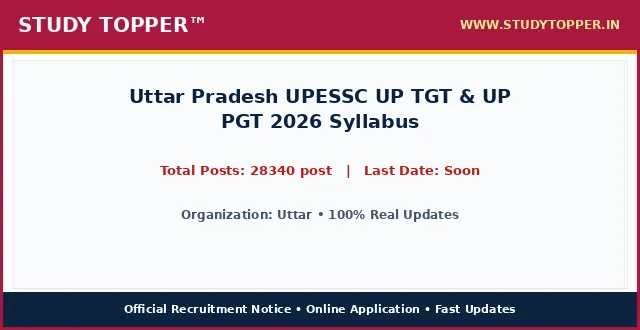
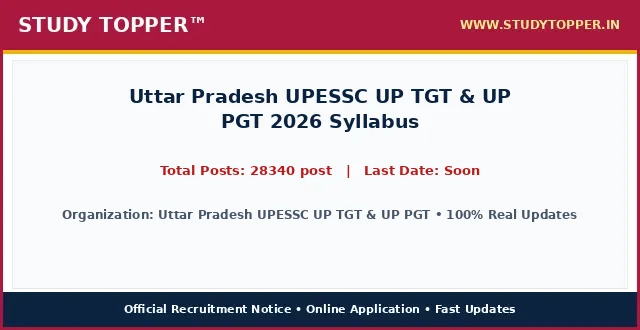
chore(lifecycle): daily auto-sort vacancies and update active dates

Changed region(s): [[0.0938, 0.6364, 0.9062, 0.6667]]

diff --git a/pages/upessc-uptgt-uppgt-syllabus.html b/pages/upessc-uptgt-uppgt-syllabus.html
@@ -987,12 +987,12 @@ ul.wp-block-latest-posts a:hover {
 <main class="site-main" id="main">
 <div class="gb-container gb-container-b39c368c">
 <h1 class="gb-headline gb-headline-e52a0102 gb-headline-text" style="font-size: 22px; font-weight: 700; color: #0000cd; text-align: left; margin: 8px 0 4px 0; line-height: 1.3; width: 100%; font-family: '-apple-system, BlinkMacSystemFont, 'Segoe UI', Roboto, 'Helvetica Neue', Arial, sans-serif', Times, serif, Hind, sans-serif;">Uttar Pradesh UPESSC UP TGT & UP PGT 2026 Syllabus</h1>
-<div class="gb-container gb-container-659bd175"><p style="color: #cd0808; font-weight: 700; font-size: 15px; margin: 2px 0 7px 0; text-align: left; font-family: '-apple-system, BlinkMacSystemFont, 'Segoe UI', Roboto, 'Helvetica Neue', Arial, sans-serif', Times, serif, Hind, sans-serif;">Post Date: August 22, 2026 11:56 AM</p></div>
-<p class="gb-headline gb-headline-550ae316 short_Details gb-headline-text" style="width: 100%; max-width: 100%; font-size: 16.8px; line-height: 1.55; color: #000000; text-align: justify; text-justify: inter-word; margin: 8px 0 14px 0; display: block; font-family: '-apple-system, BlinkMacSystemFont, 'Segoe UI', Roboto, 'Helvetica Neue', Arial, sans-serif', Times, serif, Hind, sans-serif;"><strong style="color: #0000cd;">Uttar</strong> has officially published the recruitment notice <strong style="color: #cd0808;">Uttar Pradesh UPESSC UP TGT & UP PGT 2026 Syllabus</strong> under notification number Official Advt 2026. Online applications are invited for 28340 post across multiple departments and cadre positions. Interested candidates possessing the requisite educational qualifications and falling between 18 Years to 40 Years can complete their online registration before the application deadline of Soon. Applicants should read the eligibility criteria, category reservation rules, and exam scheme thoroughly before submitting applications.</p>
+<div class="gb-container gb-container-659bd175"><p style="color: #cd0808; font-weight: 700; font-size: 15px; margin: 2px 0 7px 0; text-align: left; font-family: '-apple-system, BlinkMacSystemFont, 'Segoe UI', Roboto, 'Helvetica Neue', Arial, sans-serif', Times, serif, Hind, sans-serif;">Post Date: August 22, 2026 01:09 PM</p></div>
+<p class="gb-headline gb-headline-550ae316 short_Details gb-headline-text" style="width: 100%; max-width: 100%; font-size: 16.8px; line-height: 1.55; color: #000000; text-align: justify; text-justify: inter-word; margin: 8px 0 14px 0; display: block; font-family: '-apple-system, BlinkMacSystemFont, 'Segoe UI', Roboto, 'Helvetica Neue', Arial, sans-serif', Times, serif, Hind, sans-serif;"><strong style="color: #0000cd;">Uttar Pradesh UPESSC UP TGT & UP PGT</strong> has officially published the recruitment notice <strong style="color: #cd0808;">Uttar Pradesh UPESSC UP TGT & UP PGT 2026 Syllabus</strong> under notification number Official Notification 2026. Online applications are invited for 28340 post across multiple departments and cadre positions. Interested candidates possessing the requisite educational qualifications and falling between 18 Years to 40 Years can complete their online registration before the application deadline of Soon. Applicants should read the eligibility criteria, category reservation rules, and exam scheme thoroughly before submitting applications.</p>
 <div class="gb-container gb-container-9849916c"><div class="social-buttons-compact" style="display: flex; justify-content: flex-start; align-items: center; gap: 10px; margin: 10px 0 16px 0; width: 100%;"><a class="social-btn-compact wa" href="https://whatsapp.com/channel/0029Va9xyz" rel="noopener" style="background-color: #00d084; color: #ffffff; padding: 10px 18px; border-radius: 4px; text-decoration: none; font-weight: bold; font-size: 15.5px; display: inline-flex; align-items: center; justify-content: center; height: auto;" target="_blank">WhatsApp</a><a class="social-btn-compact tg" href="https://t.me/studytopperofficial" rel="noopener" style="background-color: #0088cc; color: #ffffff; padding: 10px 18px; border-radius: 4px; text-decoration: none; font-weight: bold; font-size: 15.5px; display: inline-flex; align-items: center; justify-content: center; height: auto;" target="_blank">Telegram</a></div></div>
 <div class="gb-container gb-container-f58e6ca1" style="border: 2px solid #5b032f; border-radius: 4px; overflow: hidden; margin: 15px 0 20px 0; background-color: #ffffff; width: 100%; box-sizing: border-box;">
 <h2 class="gb-headline gb-headline-2ca5a791 gb-headline-text" style="font-size: 16px; font-weight: 700; text-align: center; color: #ef0303; line-height: 1.3; padding: 6px 4px; margin: 0; background: #ffffff; font-family: '-apple-system, BlinkMacSystemFont, 'Segoe UI', Roboto, 'Helvetica Neue', Arial, sans-serif', Times, serif, Hind, sans-serif;">Uttar Pradesh UPESSC UP TGT & UP PGT 2026 Syllabus &ndash; Latest Details &amp; Updates</h2>
-<h3 class="gb-headline gb-headline-7d5f86e8 gb-headline-text" style="font-size: 16px; font-weight: 600; text-align: center; color: #009703; line-height: 1.25; margin: 0; padding: 2px 4px 6px 4px; background: #ffffff; font-family: '-apple-system, BlinkMacSystemFont, 'Segoe UI', Roboto, 'Helvetica Neue', Arial, sans-serif', Times, serif, Hind, sans-serif;">Uttar : Details &amp; Summary</h3>
+<h3 class="gb-headline gb-headline-7d5f86e8 gb-headline-text" style="font-size: 16px; font-weight: 600; text-align: center; color: #009703; line-height: 1.25; margin: 0; padding: 2px 4px 6px 4px; background: #ffffff; font-family: '-apple-system, BlinkMacSystemFont, 'Segoe UI', Roboto, 'Helvetica Neue', Arial, sans-serif', Times, serif, Hind, sans-serif;">Uttar Pradesh UPESSC UP TGT & UP PGT : Details &amp; Summary</h3>
 <p class="gb-headline gb-headline-79adf169 gb-headline-text" style="margin: 0 0 6px 0; font-family: '-apple-system, BlinkMacSystemFont, 'Segoe UI', Roboto, 'Helvetica Neue', Arial, sans-serif', Times, serif, Hind, sans-serif; text-align: center; font-size: 18px; font-weight: 700;"><a href="/" style="color: #0000ff; text-decoration: underline;">StudyTopper.in</a></p>
 
 <style id="st-post-boxes-responsive-css">
@@ -1025,7 +1025,7 @@ ul.wp-block-latest-posts a:hover {
     <div style="background-color: #5b032f; color: #ffffff; padding: 8px 10px; font-size: 20px; font-weight: 700; text-align: center; font-family: '-apple-system, BlinkMacSystemFont, 'Segoe UI', Roboto, 'Helvetica Neue', Arial, sans-serif', Times, serif, Hind, sans-serif;">Important Dates</div>
     <div style="padding: 12px 14px; background-color: #ffffff;">
       <ul style="padding-left: 20px; margin: 0; list-style-type: disc; text-align: left; font-size: 14pt; line-height: 1.6; font-family: '-apple-system, BlinkMacSystemFont, 'Segoe UI', Roboto, 'Helvetica Neue', Arial, sans-serif', Times, serif, Hind, sans-serif;">
-        
+        <li><span style="font-size: 14pt;">UP TGT 2026 Syllabus Available : <strong>03/08/2026</strong></span></li><li><span style="font-size: 14pt;">UP PGT 2026 Syllabus Available : <strong>03/08/2026</strong></span></li>
       </ul>
     </div>
   </div>
@@ -1047,10 +1047,10 @@ ul.wp-block-latest-posts a:hover {
 <div class="st-grid-row" style="display: flex; flex-wrap: wrap; width: 100%; border-top: 2px solid #5b032f; margin: 0; padding: 0; box-sizing: border-box;">
   <!-- Left Col: Age Limits -->
   <div class="st-col-half st-col-border-right" style="box-sizing: border-box; vertical-align: top;">
-    <div style="background-color: #046132; color: #ffffff; padding: 8px 10px; font-size: 17px; font-weight: 700; text-align: center; font-family: '-apple-system, BlinkMacSystemFont, 'Segoe UI', Roboto, 'Helvetica Neue', Arial, sans-serif', Times, serif, Hind, sans-serif;">Uttar : Age Limits As On 01 August 2026</div>
+    <div style="background-color: #046132; color: #ffffff; padding: 8px 10px; font-size: 17px; font-weight: 700; text-align: center; font-family: '-apple-system, BlinkMacSystemFont, 'Segoe UI', Roboto, 'Helvetica Neue', Arial, sans-serif', Times, serif, Hind, sans-serif;">Uttar Pradesh UPESSC UP TGT & UP PGT : Age Limits As On 01/08/2026</div>
     <div style="padding: 12px 14px; background-color: #ffffff;">
       <ul style="padding-left: 20px; margin: 0; list-style-type: disc; text-align: left; font-size: 14pt; line-height: 1.6; font-family: '-apple-system, BlinkMacSystemFont, 'Segoe UI', Roboto, 'Helvetica Neue', Arial, sans-serif', Times, serif, Hind, sans-serif;">
-        
+        <li><span style="font-size: 14pt;">Minimum Age : <strong>18 Years (As per post rules)</strong></span></li><li><span style="font-size: 14pt;">Maximum Age : <strong>40 Years (As per post rules)</strong></span></li><li><span style="font-size: 14pt;">Age Relaxation : <strong>Age Relaxation Extra as per Uttar Pradesh UPESSC UP TGT & UP PGT Recruitment Rules.</strong></span></li>
       </ul>
     </div>
   </div>
@@ -1079,9 +1079,9 @@ ul.wp-block-latest-posts a:hover {
 <th style="background-color: #f53c00; color: #ffffff; padding: 6px 10px; text-align: center; border: 1px solid #d35400; font-size: 15px; font-weight: 700; font-family: '-apple-system, BlinkMacSystemFont, 'Segoe UI', Roboto, 'Helvetica Neue', Arial, sans-serif', Times, serif, Hind, sans-serif;">Eligibility Criteria</th>
 </tr>
 <tr>
-<td style="padding: 8px; border: 1px solid #ddd; font-weight: bold;">Uttar Recruitment</td>
+<td style="padding: 8px; border: 1px solid #ddd; font-weight: bold;">Uttar Pradesh UPESSC UP TGT & UP PGT 2026 Syllabus</td>
 <td style="padding: 8px; border: 1px solid #ddd; text-align: center; font-weight: bold;">28340 post</td>
-<td style="padding: 8px; border: 1px solid #ddd;">Please refer to the official notification linked below for detailed educational qualifications.</td>
+<td style="padding: 8px; border: 1px solid #ddd;">Passed prescribed Educational Qualification from Any Recognized Board / University in India. Read full official notification for post-wise eligibility criteria.</td>
 </tr>
 </tbody>
 </table>
@@ -1093,10 +1093,10 @@ ul.wp-block-latest-posts a:hover {
 <table style="border-collapse: collapse; width: 100%;">
 <tbody>
 <tr>
-<td style="width: 100%; text-align: center;"><span style="background-color: #000080; color: #ffffff; font-size: 14pt; font-weight: bold; display: block; padding: 6px;"> How to Fill Uttar Online Application Form </span></td>
+<td style="width: 100%; text-align: center;"><span style="background-color: #000080; color: #ffffff; font-size: 14pt; font-weight: bold; display: block; padding: 6px;"> How to Fill Uttar Pradesh UPESSC UP TGT & UP PGT Online Application Form </span></td>
 </tr>
 <tr>
-<td style="width: 100%;"><ol style="margin:0; padding-left:18px; text-align: left !important; list-style-position: outside !important"><li style="margin-bottom:6px; text-align: left !important;">Read the official recruitment notification carefully before applying.</li><li style="margin-bottom:6px; text-align: left !important;">Keep all basic documents ready: ID Proof, Address Details, Basic Details.</li><li style="margin-bottom:6px; text-align: left !important;">Ready your scanned documents like Photo, Signature, ID Proof, etc.</li><li style="margin-bottom:6px; text-align: left !important;">Click on the 'Apply Online' link given in the Important Links section below.</li><li style="margin-bottom:6px; text-align: left !important;">Fill out all the columns in the application form accurately.</li><li style="margin-bottom:6px; text-align: left !important;">Pay the required application fee if applicable.</li><li style="margin-bottom:6px; text-align: left !important;">Take a printout of the final submitted application form.</li><li style="margin-bottom:6px; text-align: left !important;">Resize candidate photograph and signature accurately using the <a href="https://indtool.in" rel="noopener" target="_blank"><strong>StudyTopper Tools</strong></a> image resizer at indtool.in.</li></ol></td>
+<td style="width: 100%;"><ol style="margin:0; padding-left:18px; text-align: left !important; list-style-position: outside !important"><li style="margin-bottom:6px; text-align: left !important;">Uttar Pradesh Education Service Selection Commission (UPESSC), Prayagraj Are Released UPTGT and UPPGT Exam Syllabus 2026</li><li style="margin-bottom:6px; text-align: left !important;">Candidate Read the Syllabus Before Apply the Recruitment Application Form in UP TGT Teacher and UP PGT Teacher 2026.</li><li style="margin-bottom:6px; text-align: left !important;">Resize candidate photograph and signature accurately using the <a href="https://indtool.in" rel="noopener" target="_blank"><strong>StudyTopper Tools</strong></a> image resizer at indtool.in.</li></ol></td>
 </tr>
 </tbody>
 </table>
@@ -1104,7 +1104,7 @@ ul.wp-block-latest-posts a:hover {
 <table style="border-collapse: collapse; width: 100%;">
 <tbody>
 <tr>
-<td style="width: 100%; text-align: center;"><span style="background-color: #000080; color: #ffffff; font-size: 14pt;"><strong><span style="color: #ffffff;"> Uttar Recruitment 2026 : Mode Of Selection </span></strong></span></td>
+<td style="width: 100%; text-align: center;"><span style="background-color: #000080; color: #ffffff; font-size: 14pt;"><strong><span style="color: #ffffff;"> Uttar Pradesh UPESSC UP TGT & UP PGT Recruitment 2026 : Mode Of Selection </span></strong></span></td>
 </tr>
 <tr>
 <td style="width: 100%;">
@@ -1144,42 +1144,170 @@ ul.wp-block-latest-posts a:hover {
 
 <tr style="border-bottom: 1px solid #000000; background-color: #fff37a;">
 <td style="width: 50%; padding: 14px 16px; border-right: 1px solid #000000; text-align: center;">
-<span style="font-size: 19px; font-weight: 800; color: #000000; font-family: '-apple-system, BlinkMacSystemFont, 'Segoe UI', Roboto, 'Helvetica Neue', Arial, sans-serif', Times, serif, Hind, sans-serif;">Apply Online Link</span>
+<span style="font-size: 19px; font-weight: 800; color: #000000; font-family: '-apple-system, BlinkMacSystemFont, 'Segoe UI', Roboto, 'Helvetica Neue', Arial, sans-serif', Times, serif, Hind, sans-serif;">General Knowledge GK</span>
 </td>
 <td style="width: 50%; padding: 14px 16px; text-align: center;">
-<span style="font-size: 20px; font-weight: 800; font-family: '-apple-system, BlinkMacSystemFont, 'Segoe UI', Roboto, 'Helvetica Neue', Arial, sans-serif', Times, serif, Hind, sans-serif;"><a href="" aria-label="Click Here for Apply Online Link - Uttar Pradesh UPESSC UP TGT & UP PGT 2026 Syllabus" rel="noopener noreferrer" style="color: #0000ef; font-weight: 800; text-decoration: none;" target="_blank">Click Here</a></span>
+<span style="font-size: 20px; font-weight: 800; font-family: '-apple-system, BlinkMacSystemFont, 'Segoe UI', Roboto, 'Helvetica Neue', Arial, sans-serif', Times, serif, Hind, sans-serif;"><a href="https://doc.sarkariresults.org.in/SarkariResult.Com_UPTGT_UPPGT_GeneralKNowledge_Hindi%20(1).pdf" aria-label="Click Here for General Knowledge GK - Uttar Pradesh UPESSC UP TGT & UP PGT 2026 Syllabus" rel="noopener noreferrer" style="color: #0000ef; font-weight: 800; text-decoration: none;" target="_blank">Click Here</a></span>
 </td>
 </tr>
 <tr style="border-bottom: 1px solid #000000; background-color: #fff37a;">
 <td style="width: 50%; padding: 14px 16px; border-right: 1px solid #000000; text-align: center;">
-<span style="font-size: 19px; font-weight: 800; color: #000000; font-family: '-apple-system, BlinkMacSystemFont, 'Segoe UI', Roboto, 'Helvetica Neue', Arial, sans-serif', Times, serif, Hind, sans-serif;">Check Official Notification</span>
+<span style="font-size: 19px; font-weight: 800; color: #000000; font-family: '-apple-system, BlinkMacSystemFont, 'Segoe UI', Roboto, 'Helvetica Neue', Arial, sans-serif', Times, serif, Hind, sans-serif;">General Knowledge GK</span>
 </td>
 <td style="width: 50%; padding: 14px 16px; text-align: center;">
-<span style="font-size: 20px; font-weight: 800; font-family: '-apple-system, BlinkMacSystemFont, 'Segoe UI', Roboto, 'Helvetica Neue', Arial, sans-serif', Times, serif, Hind, sans-serif;"><a href="" aria-label="Click Here for Check Official Notification - Uttar Pradesh UPESSC UP TGT & UP PGT 2026 Syllabus" rel="noopener noreferrer" style="color: #0000ef; font-weight: 800; text-decoration: none;" target="_blank">Click Here</a></span>
+<span style="font-size: 20px; font-weight: 800; font-family: '-apple-system, BlinkMacSystemFont, 'Segoe UI', Roboto, 'Helvetica Neue', Arial, sans-serif', Times, serif, Hind, sans-serif;"><a href="https://doc.sarkariresults.org.in/SarkariResult.Com_UPTGT_UPPGT_GeneralKNowledge_English%20(1).pdf" aria-label="Click Here for General Knowledge GK - Uttar Pradesh UPESSC UP TGT & UP PGT 2026 Syllabus" rel="noopener noreferrer" style="color: #0000ef; font-weight: 800; text-decoration: none;" target="_blank">Click Here</a></span>
 </td>
 </tr>
 <tr style="border-bottom: 1px solid #000000; background-color: #fff37a;">
 <td style="width: 50%; padding: 14px 16px; border-right: 1px solid #000000; text-align: center;">
-<span style="font-size: 19px; font-weight: 800; color: #000000; font-family: '-apple-system, BlinkMacSystemFont, 'Segoe UI', Roboto, 'Helvetica Neue', Arial, sans-serif', Times, serif, Hind, sans-serif;">Photo / Sign Resizer Tool</span>
+<span style="font-size: 19px; font-weight: 800; color: #000000; font-family: '-apple-system, BlinkMacSystemFont, 'Segoe UI', Roboto, 'Helvetica Neue', Arial, sans-serif', Times, serif, Hind, sans-serif;">Physical Education</span>
 </td>
 <td style="width: 50%; padding: 14px 16px; text-align: center;">
-<span style="font-size: 20px; font-weight: 800; font-family: '-apple-system, BlinkMacSystemFont, 'Segoe UI', Roboto, 'Helvetica Neue', Arial, sans-serif', Times, serif, Hind, sans-serif;"><a href="https://indtool.in" aria-label="Click Here for Photo / Sign Resizer Tool - Uttar Pradesh UPESSC UP TGT & UP PGT 2026 Syllabus" rel="noopener noreferrer" style="color: #0000ef; font-weight: 800; text-decoration: none;" target="_blank">Click Here</a></span>
+<span style="font-size: 20px; font-weight: 800; font-family: '-apple-system, BlinkMacSystemFont, 'Segoe UI', Roboto, 'Helvetica Neue', Arial, sans-serif', Times, serif, Hind, sans-serif;"><a href="https://www.sarkariresult.com/wp-content/uploads/2026/08/sarkariresult.com_UP_TGT_2026_Physical_Education_Syllabus-1.pdf" aria-label="Click Here for Physical Education - Uttar Pradesh UPESSC UP TGT & UP PGT 2026 Syllabus" rel="noopener noreferrer" style="color: #0000ef; font-weight: 800; text-decoration: none;" target="_blank">Click Here</a></span>
 </td>
 </tr>
 <tr style="border-bottom: 1px solid #000000; background-color: #fff37a;">
+<td style="width: 50%; padding: 14px 16px; border-right: 1px solid #000000; text-align: center;">
+<span style="font-size: 19px; font-weight: 800; color: #000000; font-family: '-apple-system, BlinkMacSystemFont, 'Segoe UI', Roboto, 'Helvetica Neue', Arial, sans-serif', Times, serif, Hind, sans-serif;">Urdu</span>
+</td>
+<td style="width: 50%; padding: 14px 16px; text-align: center;">
+<span style="font-size: 20px; font-weight: 800; font-family: '-apple-system, BlinkMacSystemFont, 'Segoe UI', Roboto, 'Helvetica Neue', Arial, sans-serif', Times, serif, Hind, sans-serif;"><a href="https://www.sarkariresult.com/wp-content/uploads/2026/08/sarkariresult.com_UP_TGT_2026_Urdu_Syllabus.pdf" aria-label="Click Here for Urdu - Uttar Pradesh UPESSC UP TGT & UP PGT 2026 Syllabus" rel="noopener noreferrer" style="color: #0000ef; font-weight: 800; text-decoration: none;" target="_blank">Click Here</a></span>
+</td>
+</tr>
+<tr style="border-bottom: 1px solid #000000; background-color: #fff37a;">
+<td style="width: 50%; padding: 14px 16px; border-right: 1px solid #000000; text-align: center;">
+<span style="font-size: 19px; font-weight: 800; color: #000000; font-family: '-apple-system, BlinkMacSystemFont, 'Segoe UI', Roboto, 'Helvetica Neue', Arial, sans-serif', Times, serif, Hind, sans-serif;">Art</span>
+</td>
+<td style="width: 50%; padding: 14px 16px; text-align: center;">
+<span style="font-size: 20px; font-weight: 800; font-family: '-apple-system, BlinkMacSystemFont, 'Segoe UI', Roboto, 'Helvetica Neue', Arial, sans-serif', Times, serif, Hind, sans-serif;"><a href="https://www.sarkariresult.com/wp-content/uploads/2026/08/sarkariresult.com_UP_TGT_2026_Art_Syllabus.pdf" aria-label="Click Here for Art - Uttar Pradesh UPESSC UP TGT & UP PGT 2026 Syllabus" rel="noopener noreferrer" style="color: #0000ef; font-weight: 800; text-decoration: none;" target="_blank">Click Here</a></span>
+</td>
+</tr>
+<tr style="border-bottom: 1px solid #000000; background-color: #fff37a;">
+<td style="width: 50%; padding: 14px 16px; border-right: 1px solid #000000; text-align: center;">
+<span style="font-size: 19px; font-weight: 800; color: #000000; font-family: '-apple-system, BlinkMacSystemFont, 'Segoe UI', Roboto, 'Helvetica Neue', Arial, sans-serif', Times, serif, Hind, sans-serif;">Commerce</span>
+</td>
+<td style="width: 50%; padding: 14px 16px; text-align: center;">
+<span style="font-size: 20px; font-weight: 800; font-family: '-apple-system, BlinkMacSystemFont, 'Segoe UI', Roboto, 'Helvetica Neue', Arial, sans-serif', Times, serif, Hind, sans-serif;"><a href="https://www.sarkariresult.com/wp-content/uploads/2026/08/sarkariresult.com_UP_TGT_2026_Commerce_Syllabus.pdf" aria-label="Click Here for Commerce - Uttar Pradesh UPESSC UP TGT & UP PGT 2026 Syllabus" rel="noopener noreferrer" style="color: #0000ef; font-weight: 800; text-decoration: none;" target="_blank">Click Here</a></span>
+</td>
+</tr>
+<tr style="border-bottom: 1px solid #000000; background-color: #fff37a;">
+<td style="width: 50%; padding: 14px 16px; border-right: 1px solid #000000; text-align: center;">
+<span style="font-size: 19px; font-weight: 800; color: #000000; font-family: '-apple-system, BlinkMacSystemFont, 'Segoe UI', Roboto, 'Helvetica Neue', Arial, sans-serif', Times, serif, Hind, sans-serif;">Sanskrit</span>
+</td>
+<td style="width: 50%; padding: 14px 16px; text-align: center;">
+<span style="font-size: 20px; font-weight: 800; font-family: '-apple-system, BlinkMacSystemFont, 'Segoe UI', Roboto, 'Helvetica Neue', Arial, sans-serif', Times, serif, Hind, sans-serif;"><a href="https://www.sarkariresult.com/wp-content/uploads/2026/08/sarkariresult.com_UP_TGT_2026_Sanskrit_Syllabus.pdf" aria-label="Click Here for Sanskrit - Uttar Pradesh UPESSC UP TGT & UP PGT 2026 Syllabus" rel="noopener noreferrer" style="color: #0000ef; font-weight: 800; text-decoration: none;" target="_blank">Click Here</a></span>
+</td>
+</tr>
+<tr style="border-bottom: 1px solid #000000; background-color: #fff37a;">
+<td style="width: 50%; padding: 14px 16px; border-right: 1px solid #000000; text-align: center;">
+<span style="font-size: 19px; font-weight: 800; color: #000000; font-family: '-apple-system, BlinkMacSystemFont, 'Segoe UI', Roboto, 'Helvetica Neue', Arial, sans-serif', Times, serif, Hind, sans-serif;">English</span>
+</td>
+<td style="width: 50%; padding: 14px 16px; text-align: center;">
+<span style="font-size: 20px; font-weight: 800; font-family: '-apple-system, BlinkMacSystemFont, 'Segoe UI', Roboto, 'Helvetica Neue', Arial, sans-serif', Times, serif, Hind, sans-serif;"><a href="https://www.sarkariresult.com/wp-content/uploads/2026/08/sarkariresult.com_UP_TGT_2026_English_Syllabus.pdf" aria-label="Click Here for English - Uttar Pradesh UPESSC UP TGT & UP PGT 2026 Syllabus" rel="noopener noreferrer" style="color: #0000ef; font-weight: 800; text-decoration: none;" target="_blank">Click Here</a></span>
+</td>
+</tr>
+<tr style="border-bottom: 1px solid #000000; background-color: #fff37a;">
+<td style="width: 50%; padding: 14px 16px; border-right: 1px solid #000000; text-align: center;">
+<span style="font-size: 19px; font-weight: 800; color: #000000; font-family: '-apple-system, BlinkMacSystemFont, 'Segoe UI', Roboto, 'Helvetica Neue', Arial, sans-serif', Times, serif, Hind, sans-serif;">Mathematics</span>
+</td>
+<td style="width: 50%; padding: 14px 16px; text-align: center;">
+<span style="font-size: 20px; font-weight: 800; font-family: '-apple-system, BlinkMacSystemFont, 'Segoe UI', Roboto, 'Helvetica Neue', Arial, sans-serif', Times, serif, Hind, sans-serif;"><a href="https://www.sarkariresult.com/wp-content/uploads/2026/08/sarkariresult.com_UP_TGT_2026_Mathematical_Syllabus.pdf" aria-label="Click Here for Mathematics - Uttar Pradesh UPESSC UP TGT & UP PGT 2026 Syllabus" rel="noopener noreferrer" style="color: #0000ef; font-weight: 800; text-decoration: none;" target="_blank">Click Here</a></span>
+</td>
+</tr>
+<tr style="border-bottom: 1px solid #000000; background-color: #fff37a;">
+<td style="width: 50%; padding: 14px 16px; border-right: 1px solid #000000; text-align: center;">
+<span style="font-size: 19px; font-weight: 800; color: #000000; font-family: '-apple-system, BlinkMacSystemFont, 'Segoe UI', Roboto, 'Helvetica Neue', Arial, sans-serif', Times, serif, Hind, sans-serif;">Hindi</span>
+</td>
+<td style="width: 50%; padding: 14px 16px; text-align: center;">
+<span style="font-size: 20px; font-weight: 800; font-family: '-apple-system, BlinkMacSystemFont, 'Segoe UI', Roboto, 'Helvetica Neue', Arial, sans-serif', Times, serif, Hind, sans-serif;"><a href="https://www.sarkariresult.com/wp-content/uploads/2026/08/sarkariresult.com_UP_TGT_2026_Hindi_Syllabus.pdf" aria-label="Click Here for Hindi - Uttar Pradesh UPESSC UP TGT & UP PGT 2026 Syllabus" rel="noopener noreferrer" style="color: #0000ef; font-weight: 800; text-decoration: none;" target="_blank">Click Here</a></span>
+</td>
+</tr>
+<tr style="border-bottom: 1px solid #000000; background-color: #fff37a;">
+<td style="width: 50%; padding: 14px 16px; border-right: 1px solid #000000; text-align: center;">
+<span style="font-size: 19px; font-weight: 800; color: #000000; font-family: '-apple-system, BlinkMacSystemFont, 'Segoe UI', Roboto, 'Helvetica Neue', Arial, sans-serif', Times, serif, Hind, sans-serif;">Music Instrumental</span>
+</td>
+<td style="width: 50%; padding: 14px 16px; text-align: center;">
+<span style="font-size: 20px; font-weight: 800; font-family: '-apple-system, BlinkMacSystemFont, 'Segoe UI', Roboto, 'Helvetica Neue', Arial, sans-serif', Times, serif, Hind, sans-serif;"><a href="https://www.sarkariresult.com/wp-content/uploads/2026/08/sarkariresult.com_UP_TGT_2026_Music_Instrumental_Syllabus.pdf" aria-label="Click Here for Music Instrumental - Uttar Pradesh UPESSC UP TGT & UP PGT 2026 Syllabus" rel="noopener noreferrer" style="color: #0000ef; font-weight: 800; text-decoration: none;" target="_blank">Click Here</a></span>
+</td>
+</tr>
+<tr style="border-bottom: 1px solid #000000; background-color: #fff37a;">
+<td style="width: 50%; padding: 14px 16px; border-right: 1px solid #000000; text-align: center;">
+<span style="font-size: 19px; font-weight: 800; color: #000000; font-family: '-apple-system, BlinkMacSystemFont, 'Segoe UI', Roboto, 'Helvetica Neue', Arial, sans-serif', Times, serif, Hind, sans-serif;">Music Vocal</span>
+</td>
+<td style="width: 50%; padding: 14px 16px; text-align: center;">
+<span style="font-size: 20px; font-weight: 800; font-family: '-apple-system, BlinkMacSystemFont, 'Segoe UI', Roboto, 'Helvetica Neue', Arial, sans-serif', Times, serif, Hind, sans-serif;"><a href="https://www.sarkariresult.com/wp-content/uploads/2026/08/sarkariresult.com_UP_TGT_2026_Musci_Vocal_Syllabus.pdf" aria-label="Click Here for Music Vocal - Uttar Pradesh UPESSC UP TGT & UP PGT 2026 Syllabus" rel="noopener noreferrer" style="color: #0000ef; font-weight: 800; text-decoration: none;" target="_blank">Click Here</a></span>
+</td>
+</tr>
+<tr style="border-bottom: 1px solid #000000; background-color: #fff37a;">
+<td style="width: 50%; padding: 14px 16px; border-right: 1px solid #000000; text-align: center;">
+<span style="font-size: 19px; font-weight: 800; color: #000000; font-family: '-apple-system, BlinkMacSystemFont, 'Segoe UI', Roboto, 'Helvetica Neue', Arial, sans-serif', Times, serif, Hind, sans-serif;">Agriculture</span>
+</td>
+<td style="width: 50%; padding: 14px 16px; text-align: center;">
+<span style="font-size: 20px; font-weight: 800; font-family: '-apple-system, BlinkMacSystemFont, 'Segoe UI', Roboto, 'Helvetica Neue', Arial, sans-serif', Times, serif, Hind, sans-serif;"><a href="https://www.sarkariresult.com/wp-content/uploads/2026/08/sarkariresult.com_UP_TGT_2026_Agriculture_Syllabus.pdf" aria-label="Click Here for Agriculture - Uttar Pradesh UPESSC UP TGT & UP PGT 2026 Syllabus" rel="noopener noreferrer" style="color: #0000ef; font-weight: 800; text-decoration: none;" target="_blank">Click Here</a></span>
+</td>
+</tr>
+<tr style="border-bottom: 1px solid #000000; background-color: #fff37a;">
+<td style="width: 50%; padding: 14px 16px; border-right: 1px solid #000000; text-align: center;">
+<span style="font-size: 19px; font-weight: 800; color: #000000; font-family: '-apple-system, BlinkMacSystemFont, 'Segoe UI', Roboto, 'Helvetica Neue', Arial, sans-serif', Times, serif, Hind, sans-serif;">Home Science</span>
+</td>
+<td style="width: 50%; padding: 14px 16px; text-align: center;">
+<span style="font-size: 20px; font-weight: 800; font-family: '-apple-system, BlinkMacSystemFont, 'Segoe UI', Roboto, 'Helvetica Neue', Arial, sans-serif', Times, serif, Hind, sans-serif;"><a href="https://www.sarkariresult.com/wp-content/uploads/2026/08/sarkariresult.com_UP_TGT_2026_Home_Science_Syllabus.pdf" aria-label="Click Here for Home Science - Uttar Pradesh UPESSC UP TGT & UP PGT 2026 Syllabus" rel="noopener noreferrer" style="color: #0000ef; font-weight: 800; text-decoration: none;" target="_blank">Click Here</a></span>
+</td>
+</tr>
+<tr style="border-bottom: 1px solid #000000; background-color: #fff37a;">
+<td style="width: 50%; padding: 14px 16px; border-right: 1px solid #000000; text-align: center;">
+<span style="font-size: 19px; font-weight: 800; color: #000000; font-family: '-apple-system, BlinkMacSystemFont, 'Segoe UI', Roboto, 'Helvetica Neue', Arial, sans-serif', Times, serif, Hind, sans-serif;">Social Science</span>
+</td>
+<td style="width: 50%; padding: 14px 16px; text-align: center;">
+<span style="font-size: 20px; font-weight: 800; font-family: '-apple-system, BlinkMacSystemFont, 'Segoe UI', Roboto, 'Helvetica Neue', Arial, sans-serif', Times, serif, Hind, sans-serif;"><a href="https://www.sarkariresult.com/wp-content/uploads/2026/08/sarkariresult.com_UP_TGT_2026_Social_Science_Syllabus.pdf" aria-label="Click Here for Social Science - Uttar Pradesh UPESSC UP TGT & UP PGT 2026 Syllabus" rel="noopener noreferrer" style="color: #0000ef; font-weight: 800; text-decoration: none;" target="_blank">Click Here</a></span>
+</td>
+</tr>
+<tr style="border-bottom: 1px solid #000000; background-color: #fff37a;">
+<td style="width: 50%; padding: 14px 16px; border-right: 1px solid #000000; text-align: center;">
+<span style="font-size: 19px; font-weight: 800; color: #000000; font-family: '-apple-system, BlinkMacSystemFont, 'Segoe UI', Roboto, 'Helvetica Neue', Arial, sans-serif', Times, serif, Hind, sans-serif;">Science</span>
+</td>
+<td style="width: 50%; padding: 14px 16px; text-align: center;">
+<span style="font-size: 20px; font-weight: 800; font-family: '-apple-system, BlinkMacSystemFont, 'Segoe UI', Roboto, 'Helvetica Neue', Arial, sans-serif', Times, serif, Hind, sans-serif;"><a href="https://www.sarkariresult.com/wp-content/uploads/2026/08/sarkariresult.com_UP_TGT_2026_Science_Syllabus.pdf" aria-label="Click Here for Science - Uttar Pradesh UPESSC UP TGT & UP PGT 2026 Syllabus" rel="noopener noreferrer" style="color: #0000ef; font-weight: 800; text-decoration: none;" target="_blank">Click Here</a></span>
+</td>
+</tr>
+<tr style="border-bottom: 1px solid #000000; background-color: #fff37a;">
+<td style="width: 50%; padding: 14px 16px; border-right: 1px solid #000000; text-align: center;">
+<span style="font-size: 19px; font-weight: 800; color: #000000; font-family: '-apple-system, BlinkMacSystemFont, 'Segoe UI', Roboto, 'Helvetica Neue', Arial, sans-serif', Times, serif, Hind, sans-serif;">Android Apps</span>
+</td>
+<td style="width: 50%; padding: 14px 16px; text-align: center;">
+<span style="font-size: 20px; font-weight: 800; font-family: '-apple-system, BlinkMacSystemFont, 'Segoe UI', Roboto, 'Helvetica Neue', Arial, sans-serif', Times, serif, Hind, sans-serif;"><a href="https://itunes.apple.com/us/app/sarkari-result/id1051363935?ls=1&mt=8" aria-label="Click Here for Android Apps - Uttar Pradesh UPESSC UP TGT & UP PGT 2026 Syllabus" rel="noopener noreferrer" style="color: #0000ef; font-weight: 800; text-decoration: none;" target="_blank">Click Here</a></span>
+</td>
+</tr>
+<tr style="border-bottom: 1px solid #000000; background-color: #fff37a;">
+<td style="width: 50%; padding: 14px 16px; border-right: 1px solid #000000; text-align: center;">
+<span style="font-size: 19px; font-weight: 800; color: #000000; font-family: '-apple-system, BlinkMacSystemFont, 'Segoe UI', Roboto, 'Helvetica Neue', Arial, sans-serif', Times, serif, Hind, sans-serif;">Join Sarkari Result Channel</span>
+</td>
+<td style="width: 50%; padding: 14px 16px; text-align: center;">
+<span style="font-size: 20px; font-weight: 800; font-family: '-apple-system, BlinkMacSystemFont, 'Segoe UI', Roboto, 'Helvetica Neue', Arial, sans-serif', Times, serif, Hind, sans-serif;"><a href="https://t.me/SarkariResult2012" aria-label="Click Here for Join Sarkari Result Channel - Uttar Pradesh UPESSC UP TGT & UP PGT 2026 Syllabus" rel="noopener noreferrer" style="color: #0000ef; font-weight: 800; text-decoration: none;" target="_blank">Click Here</a></span>
+</td>
+</tr>
+<tr style="border-bottom: 1px solid #000000; background-color: #fff37a;">
+<td style="width: 50%; padding: 14px 16px; border-right: 1px solid #000000; text-align: center;">
+<span style="font-size: 19px; font-weight: 800; color: #000000; font-family: '-apple-system, BlinkMacSystemFont, 'Segoe UI', Roboto, 'Helvetica Neue', Arial, sans-serif', Times, serif, Hind, sans-serif;">Join Sarkari Result Channel</span>
+</td>
+<td style="width: 50%; padding: 14px 16px; text-align: center;">
+<span style="font-size: 20px; font-weight: 800; font-family: '-apple-system, BlinkMacSystemFont, 'Segoe UI', Roboto, 'Helvetica Neue', Arial, sans-serif', Times, serif, Hind, sans-serif;"><a href="https://whatsapp.com/channel/0029Va5IElwBlHpVBd6i5a18" aria-label="Click Here for Join Sarkari Result Channel - Uttar Pradesh UPESSC UP TGT & UP PGT 2026 Syllabus" rel="noopener noreferrer" style="color: #0000ef; font-weight: 800; text-decoration: none;" target="_blank">Click Here</a></span>
+</td>
+</tr>
+<tr style="border-bottom: 1px solid #000000; background-color: #fff37a;">
+<td style="width: 50%; padding: 14px 16px; border-right: 1px solid #000000; text-align: center;">
+<span style="font-size: 19px; font-weight: 800; color: #000000; font-family: '-apple-system, BlinkMacSystemFont, 'Segoe UI', Roboto, 'Helvetica Neue', Arial, sans-serif', Times, serif, Hind, sans-serif;">Official Website</span>
+</td>
+<td style="width: 50%; padding: 14px 16px; text-align: center;">
+<span style="font-size: 20px; font-weight: 800; font-family: '-apple-system, BlinkMacSystemFont, 'Segoe UI', Roboto, 'Helvetica Neue', Arial, sans-serif', Times, serif, Hind, sans-serif;"><a href="https://upessc.up.gov.in/" aria-label="Click Here for Official Website - Uttar Pradesh UPESSC UP TGT & UP PGT 2026 Syllabus" rel="noopener noreferrer" style="color: #0000ef; font-weight: 800; text-decoration: none;" target="_blank">Click Here</a></span>
+</td>
+</tr>
+<tr style=" background-color: #fff37a;">
 <td style="width: 50%; padding: 14px 16px; border-right: 1px solid #000000; text-align: center;">
 <span style="font-size: 19px; font-weight: 800; color: #000000; font-family: '-apple-system, BlinkMacSystemFont, 'Segoe UI', Roboto, 'Helvetica Neue', Arial, sans-serif', Times, serif, Hind, sans-serif;">Check Sarkari Result</span>
 </td>
 <td style="width: 50%; padding: 14px 16px; text-align: center;">
 <span style="font-size: 20px; font-weight: 800; font-family: '-apple-system, BlinkMacSystemFont, 'Segoe UI', Roboto, 'Helvetica Neue', Arial, sans-serif', Times, serif, Hind, sans-serif;"><a href="/" aria-label="Click Here for Check Sarkari Result - Uttar Pradesh UPESSC UP TGT & UP PGT 2026 Syllabus" rel="noopener noreferrer" style="color: #0000ef; font-weight: 800; text-decoration: none;" >Click Here</a></span>
-</td>
-</tr>
-<tr style=" background-color: #fff37a;">
-<td style="width: 50%; padding: 14px 16px; border-right: 1px solid #000000; text-align: center;">
-<span style="font-size: 19px; font-weight: 800; color: #000000; font-family: '-apple-system, BlinkMacSystemFont, 'Segoe UI', Roboto, 'Helvetica Neue', Arial, sans-serif', Times, serif, Hind, sans-serif;">Uttar Website</span>
-</td>
-<td style="width: 50%; padding: 14px 16px; text-align: center;">
-<span style="font-size: 20px; font-weight: 800; font-family: '-apple-system, BlinkMacSystemFont, 'Segoe UI', Roboto, 'Helvetica Neue', Arial, sans-serif', Times, serif, Hind, sans-serif;"><a href="" aria-label="Click Here for Uttar Website - Uttar Pradesh UPESSC UP TGT & UP PGT 2026 Syllabus" rel="noopener noreferrer" style="color: #0000ef; font-weight: 800; text-decoration: none;" target="_blank">Click Here</a></span>
 </td>
 </tr>
 </tbody>
@@ -1193,7 +1321,7 @@ ul.wp-block-latest-posts a:hover {
   <div style="font-size: 14.5px; line-height: 1.65; color: #222222;">
     <p style="margin: 0 0 4px 0;"><strong style="color: #000080;">Q1. What is the last date to apply for Uttar Pradesh UPESSC UP TGT & UP PGT 2026 Syllabus?</strong></p>
 <p style="margin: 0 0 16px 0; color: #333333; line-height: 1.6;">Ans. The last date for online submission of application is Soon.</p><p style="margin: 0 0 4px 0;"><strong style="color: #000080;">Q2. What is the age limit for Uttar Pradesh UPESSC UP TGT & UP PGT 2026 Syllabus?</strong></p>
-<p style="margin: 0 0 16px 0; color: #333333; line-height: 1.6;">Ans. Candidate age should generally be between 18 Years and 40 Years as on 01 August 2026. Age relaxation is applicable per rules.</p><p style="margin: 0 0 4px 0;"><strong style="color: #000080;">Q3. What is the application fee for Uttar Pradesh UPESSC UP TGT & UP PGT 2026 Syllabus?</strong></p>
+<p style="margin: 0 0 16px 0; color: #333333; line-height: 1.6;">Ans. Candidate age should generally be between 18 Years and 40 Years as on 01/08/2026. Age relaxation is applicable per rules.</p><p style="margin: 0 0 4px 0;"><strong style="color: #000080;">Q3. What is the application fee for Uttar Pradesh UPESSC UP TGT & UP PGT 2026 Syllabus?</strong></p>
 <p style="margin: 0 0 16px 0; color: #333333; line-height: 1.6;">Ans. Application fee varies by category (e.g., General/OBC: 0/-, SC/ST/PwD: Exempted).</p><p style="margin: 0 0 4px 0;"><strong style="color: #000080;">Q4. How many total posts are available in Uttar Pradesh UPESSC UP TGT & UP PGT 2026 Syllabus?</strong></p>
 <p style="margin: 0 0 16px 0; color: #333333; line-height: 1.6;">Ans. A total of 28340 post have been officially announced for this recruitment drive.</p><p style="margin: 0 0 4px 0;"><strong style="color: #000080;">Q5. How can I apply online for Uttar Pradesh UPESSC UP TGT & UP PGT 2026 Syllabus?</strong></p>
 <p style="margin: 0 0 0 0; color: #333333; line-height: 1.6;">Ans. Eligible candidates can click the 'Apply Online' link in the Important Links table, register, fill details, resize photo/signature via indtool.in, and submit before Soon.</p>
